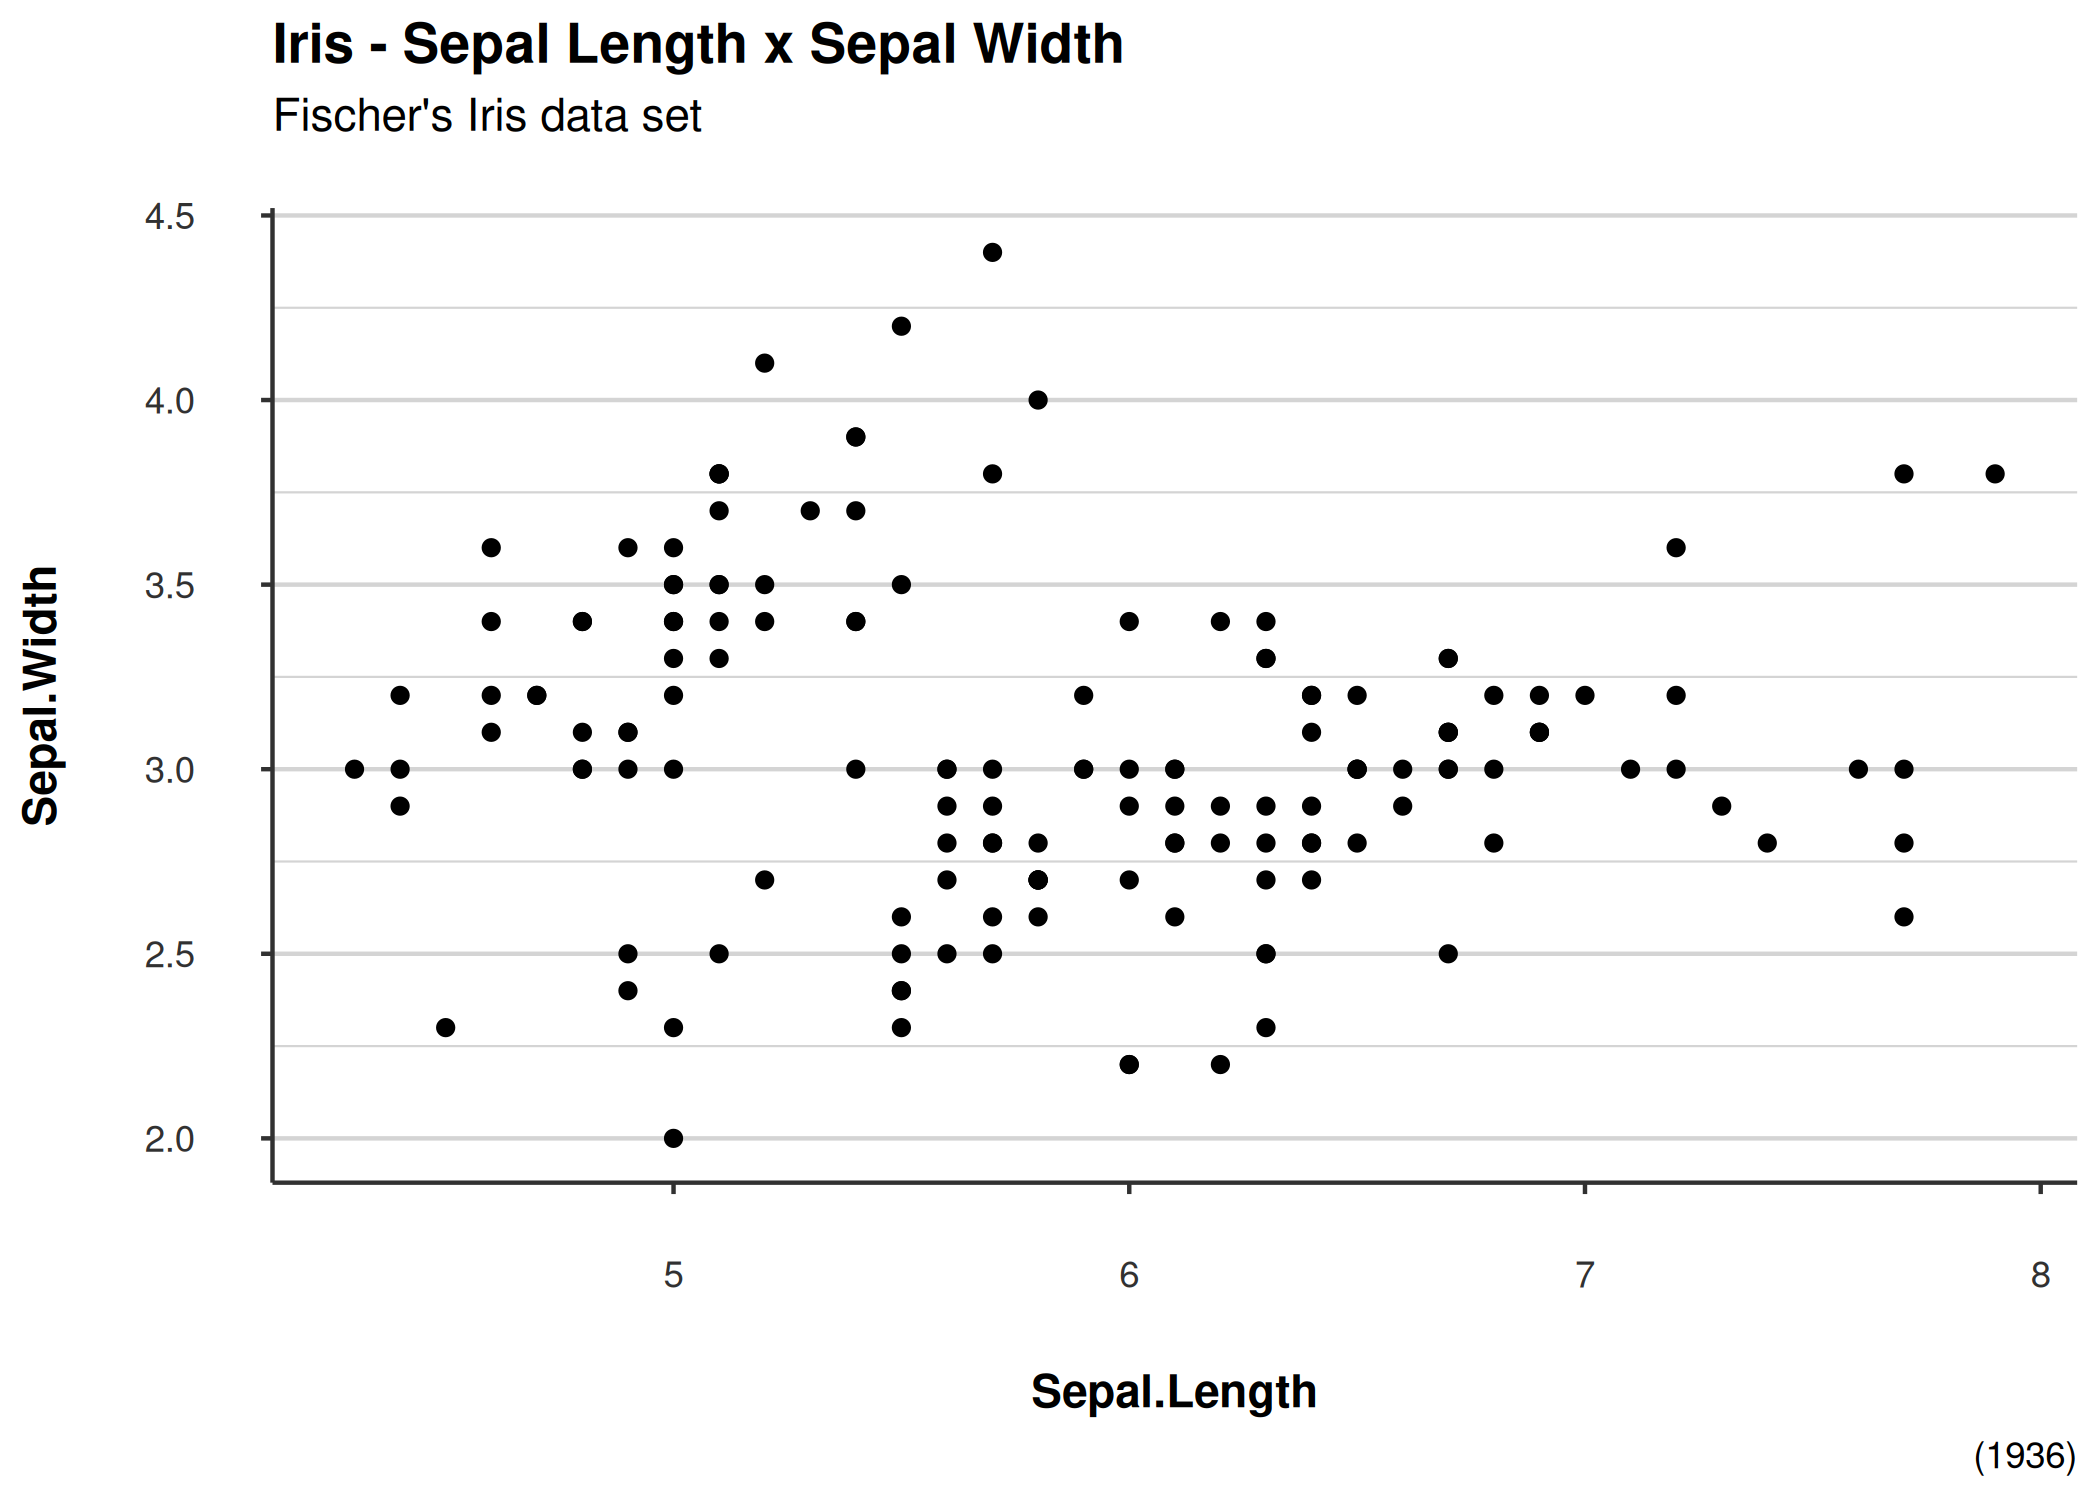
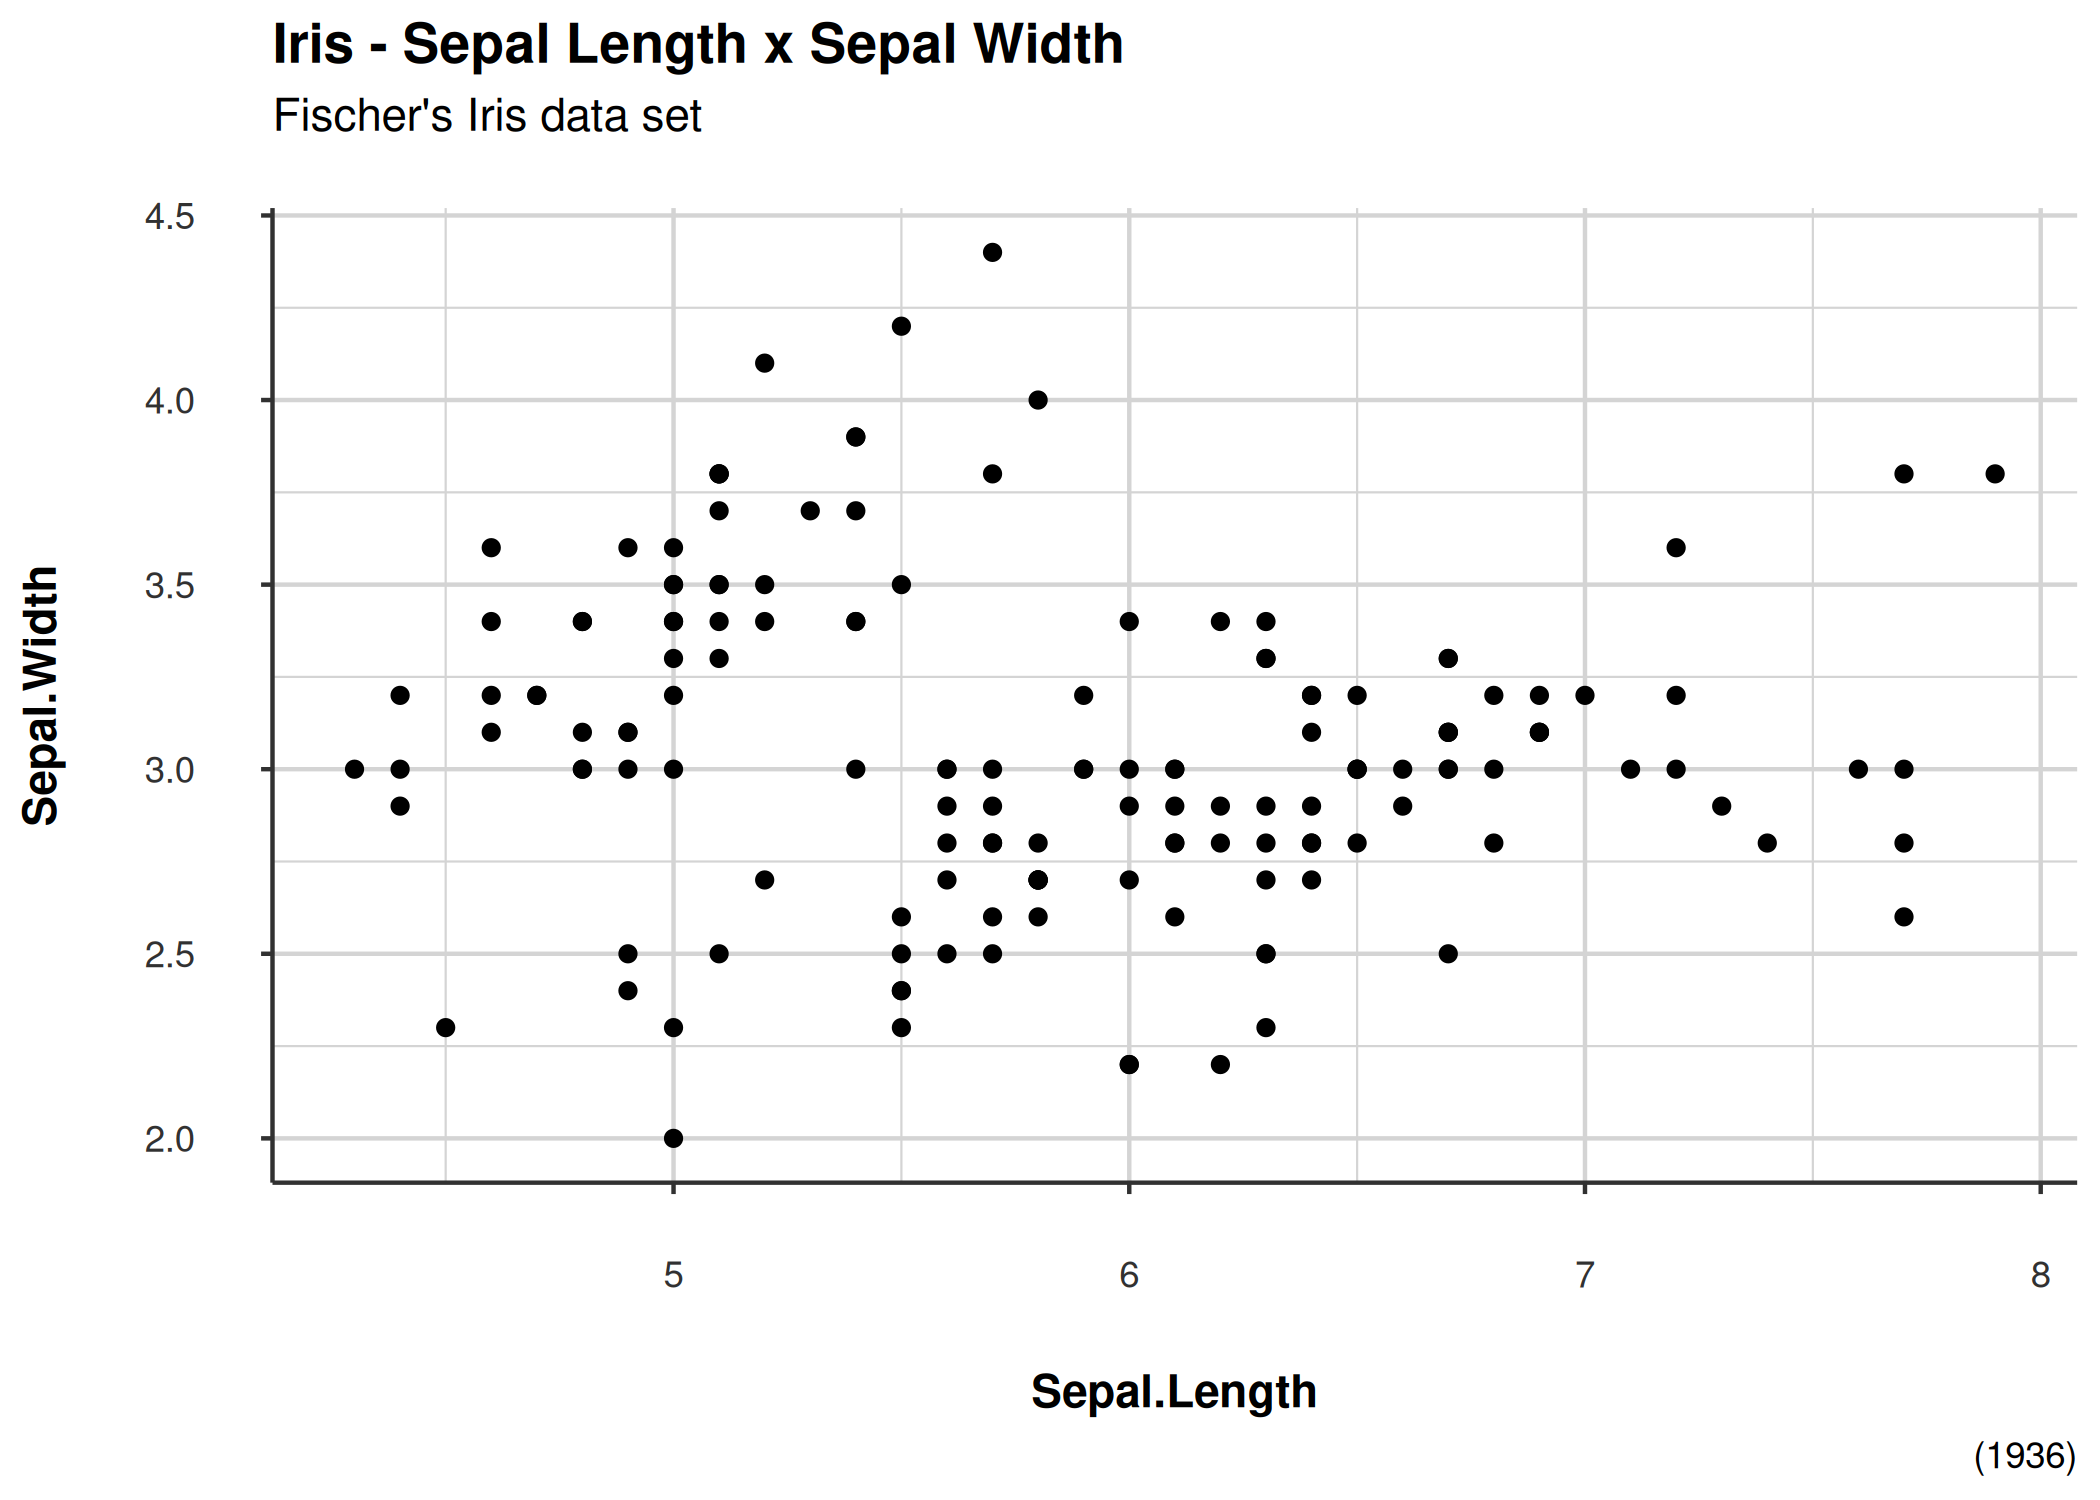
neo_theme layout with x and y lines

diff --git a/README.md b/README.md
@@ -40,7 +40,7 @@ ggplot(iris, aes(x = Sepal.Length, Sepal.Width)) +
     subtitle = "Fischer's Iris data set",
     caption = "(1936)"
   ) +
-  theme_neo(layout = 3)
+  theme_neo(layout = 4)
 ```
 
 <img src="man/figures/README-unnamed-chunk-3-1.png" width="100%" />
